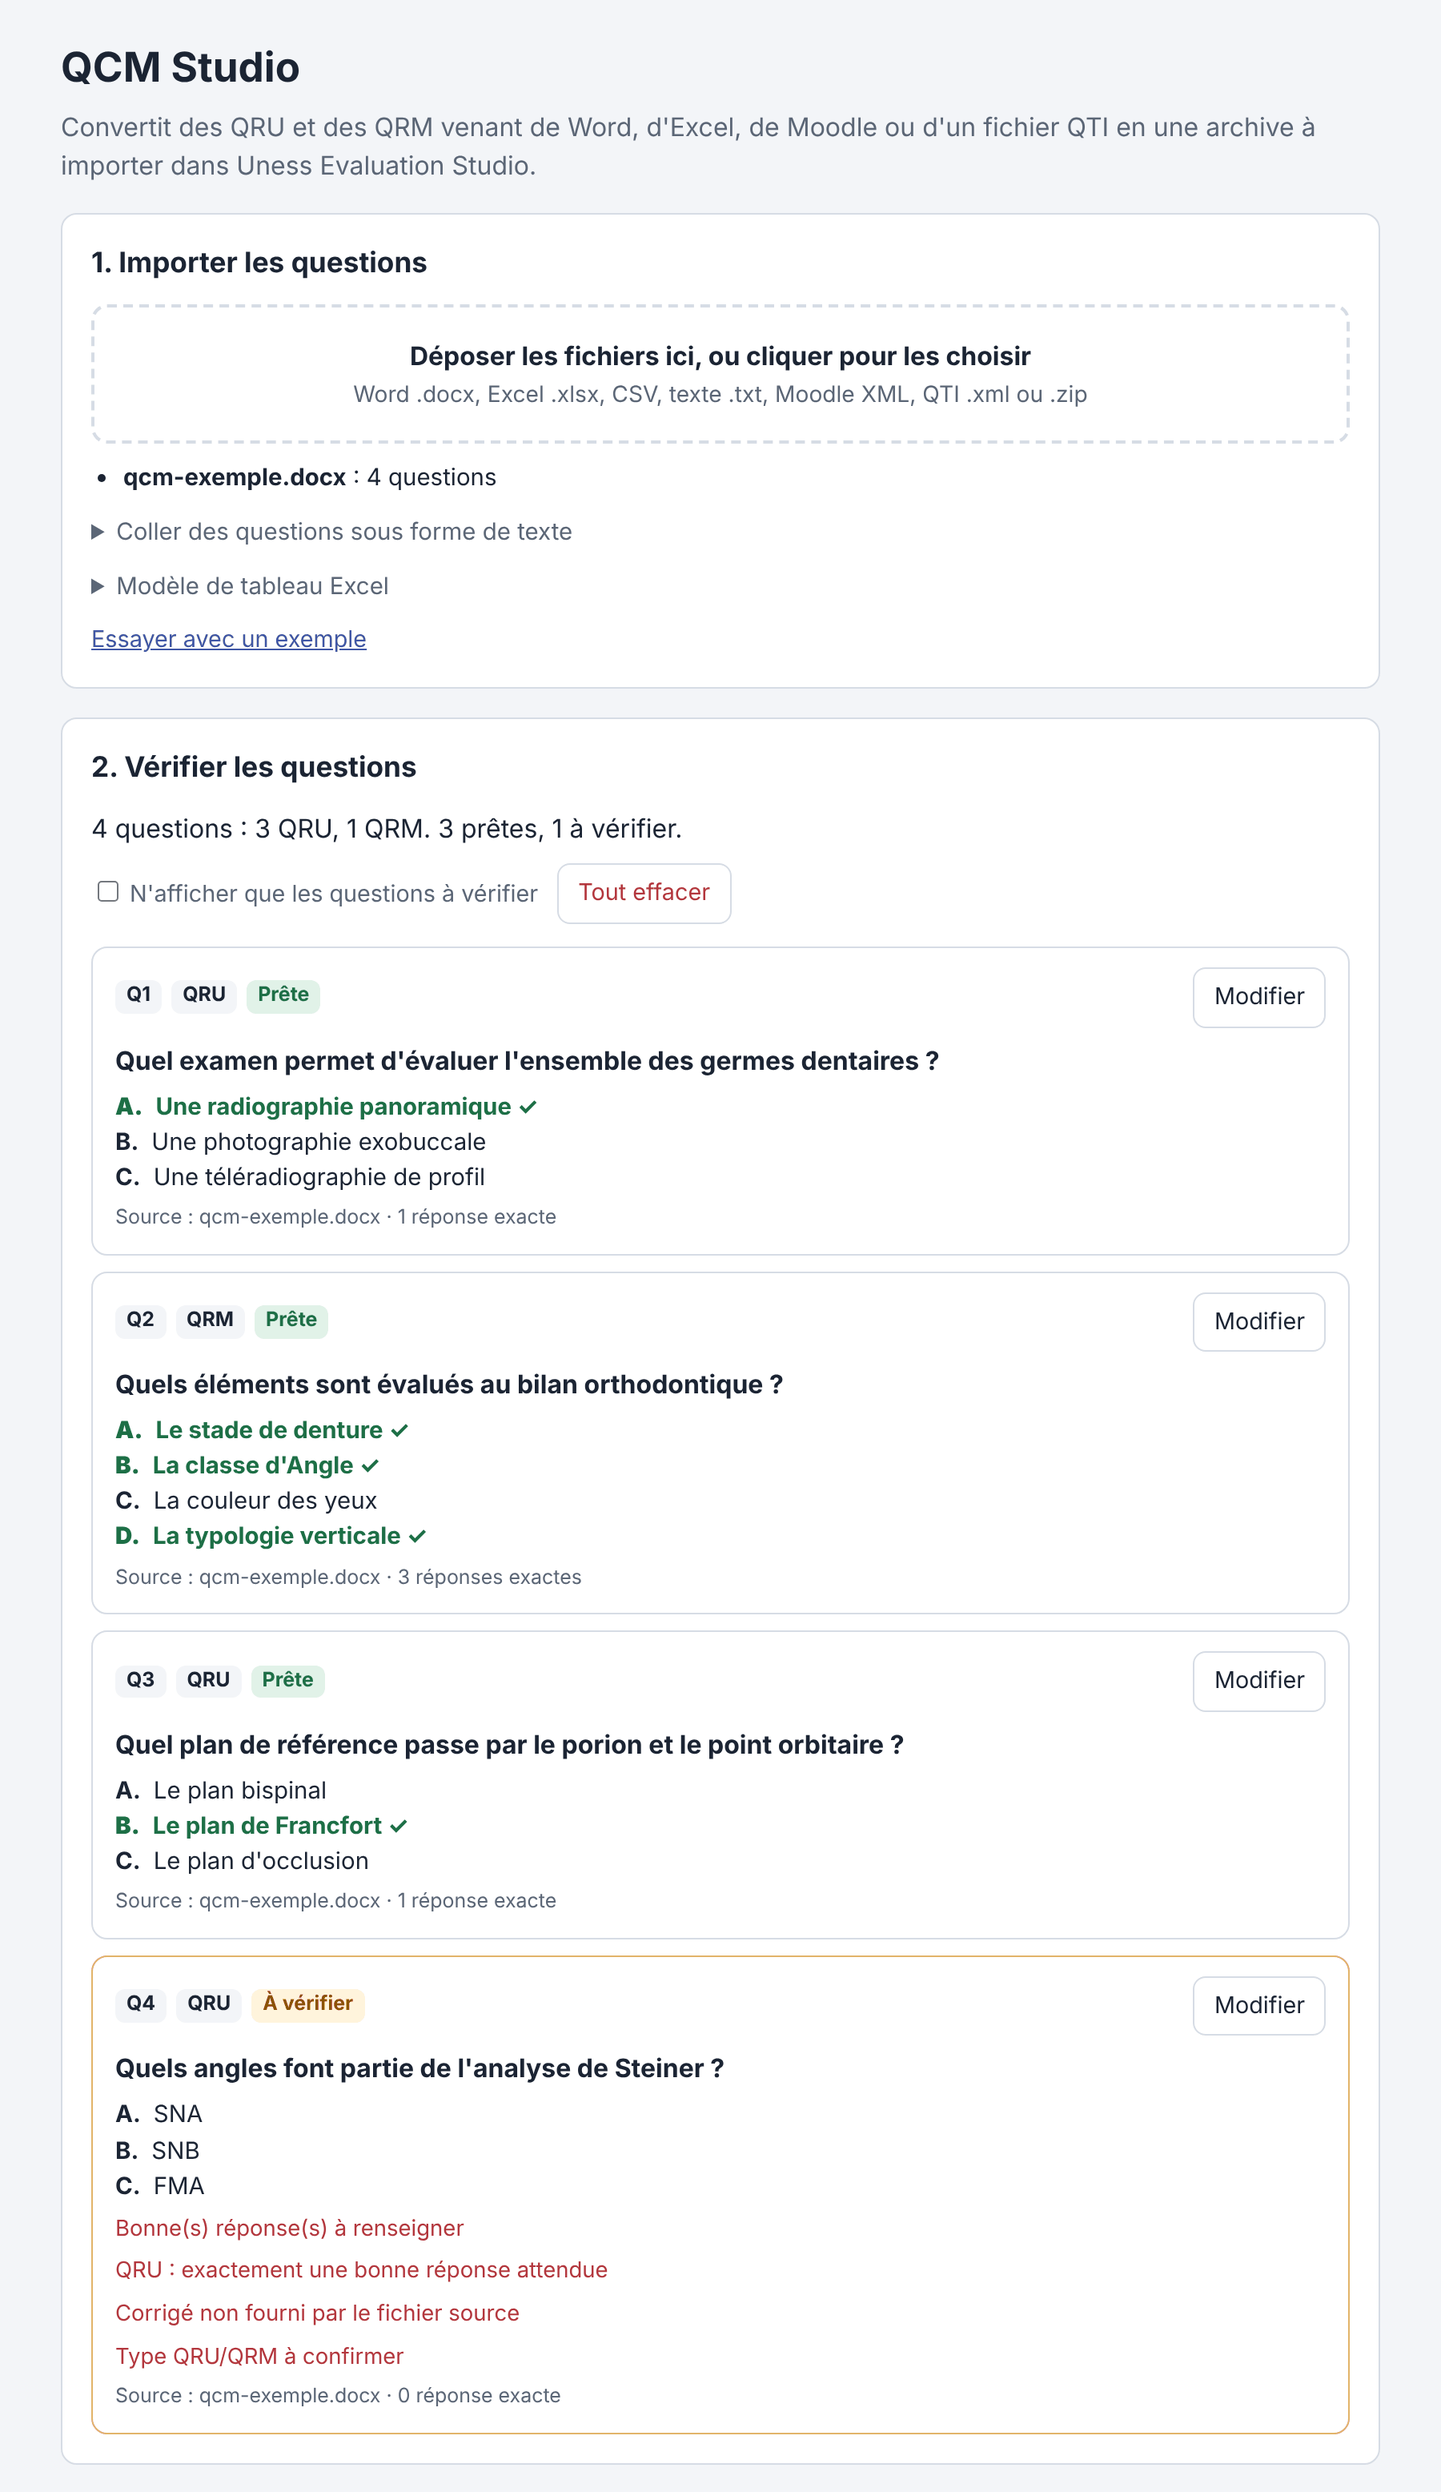
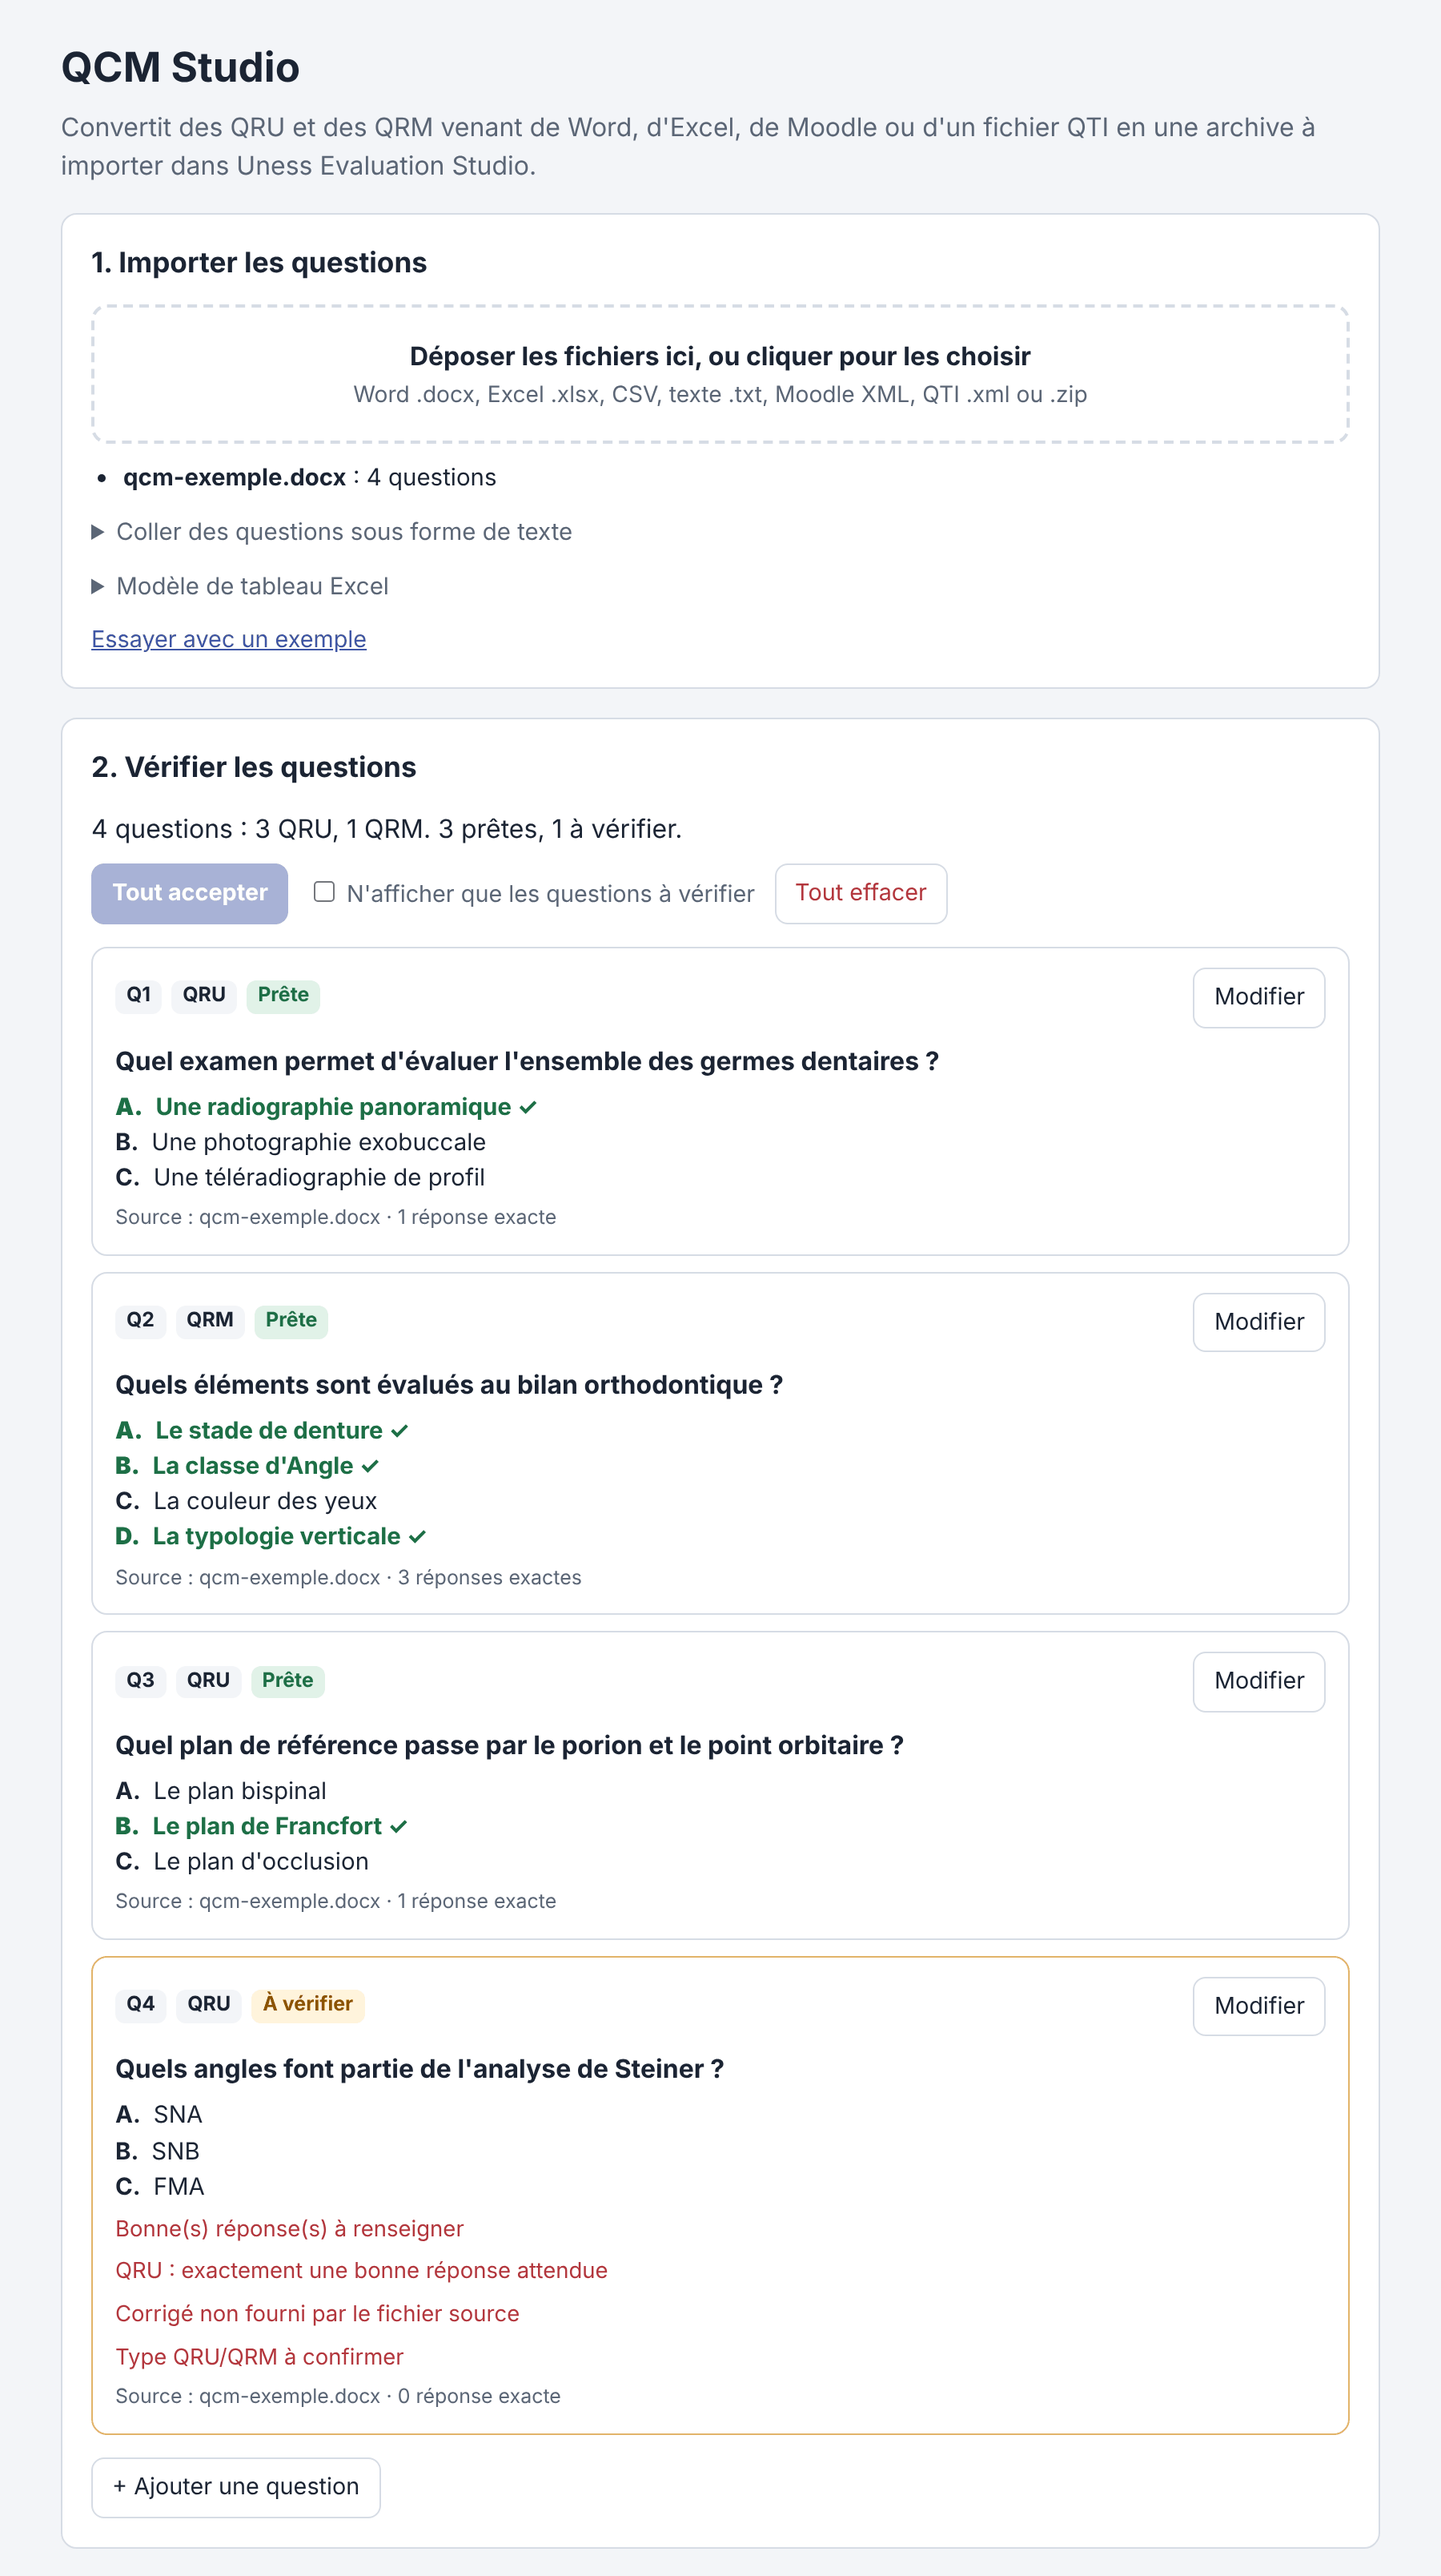
Rétablit l'ajout manuel de questions et le bouton Tout accepter
Claude-Session: https://claude.ai/code/session_01PRPaLM5m9NzYQXdgtGvSjs

diff --git a/index.html b/index.html
@@ -77,6 +77,7 @@ label.champ, p.champ { display: block; margin: 12px 0 4px; font-size: 0.86rem; f
 .choix button { flex: none; }
 .vide { color: var(--discret); font-size: 0.92rem; }
 #etatExport { margin-top: 14px; font-weight: 700; }
+#noteLot { margin-top: 8px; }
 #etatExport.ok { color: var(--ok); }
 #etatExport.alerte { color: var(--alerte); }
 footer { margin-top: 8px; font-size: 0.75rem; color: var(--discret); text-align: center; }
@@ -117,11 +118,13 @@ footer { margin-top: 8px; font-size: 0.75rem; color: var(--discret); text-align:
     <h2>2. Vérifier les questions</h2>
     <p id="bilan">Aucune question pour l'instant.</p>
     <div class="actions" id="outils" hidden>
-      <button type="button" class="principal" id="toutAccepter" hidden></button>
+      <button type="button" class="principal" id="toutAccepter" disabled title="Confirmer en une fois les corrigés déjà détectés, sans inventer de réponses">Tout accepter</button>
       <label class="filtre" id="filtreLabel" hidden><input type="checkbox" id="filtre"> N'afficher que les questions à vérifier</label>
       <button type="button" class="danger" id="toutEffacer">Tout effacer</button>
     </div>
+    <p class="discret" id="noteLot" hidden></p>
     <ol class="questions" id="liste"></ol>
+    <div class="actions" style="margin-top: 14px"><button type="button" id="ajouterQuestion">+ Ajouter une question</button></div>
   </section>
 
   <section class="carte">
@@ -132,7 +135,7 @@ footer { margin-top: 8px; font-size: 0.75rem; color: var(--discret); text-align:
     <input type="text" id="identifiant" value="TEST_001">
     <label class="champ" for="consignes">Consignes aux étudiants (facultatif)</label>
     <textarea id="consignes"></textarea>
-    <p id="etatExport">Importez des questions pour activer l'export.</p>
+    <p id="etatExport">Importez ou ajoutez des questions pour activer l'export.</p>
     <div class="actions">
       <button type="button" class="principal" id="exportQTI" disabled>Télécharger l'archive QTI (.zip)</button>
       <button type="button" id="exportTXT" disabled>Texte (.txt)</button>
@@ -1506,14 +1509,17 @@ function afficherResume() {
     : "Aucune question pour l'instant.";
   const lot = qs.filter(bulkAcceptable).length;
   $("outils").hidden = !qs.length;
-  $("toutAccepter").hidden = !lot;
-  $("toutAccepter").textContent =
-    lot > 1 ? `Confirmer les ${lot} corrigés détectés` : "Confirmer le corrigé détecté";
+  $("toutAccepter").disabled = !lot;
+  $("noteLot").hidden = !lot;
+  $("noteLot").textContent =
+    lot > 1
+      ? `${lot} questions ont un corrigé détecté qui reste à confirmer.`
+      : "Une question a un corrigé détecté qui reste à confirmer.";
   $("filtreLabel").hidden = !aVerifier && !etat.aVerifierSeulement;
 
   const etatExport = $("etatExport");
   etatExport.textContent = !qs.length
-    ? "Importez des questions pour activer l'export."
+    ? "Importez ou ajoutez des questions pour activer l'export."
     : aVerifier
       ? `${pluriel(aVerifier, "question")} à corriger avant l'export.`
       : "Toutes les questions sont prêtes.";
@@ -1568,7 +1574,7 @@ function carteEdition(q, i) {
       return `<div class="choix">
     <b>${lettre}</b>
     <input type="checkbox" data-champ="juste" data-j="${j}"${c.correct ? " checked" : ""} aria-label="Bonne réponse ${lettre}">
-    <input type="text" data-champ="proposition" data-j="${j}" value="${esc(c.text)}" aria-label="Proposition ${lettre}">
+    <input type="text" data-champ="proposition" data-j="${j}" value="${esc(c.text)}" placeholder="Proposition ${lettre}" aria-label="Proposition ${lettre}">
     <button type="button" data-action="retirer" data-j="${j}" aria-label="Retirer la proposition ${lettre}">×</button>
   </div>`;
     })
@@ -1582,7 +1588,7 @@ function carteEdition(q, i) {
     details.length ? "<br>" + esc(details.join(" ")) : ""
   }</p>
   <label class="champ" for="enonce-${i}">Énoncé</label>
-  <textarea id="enonce-${i}" data-champ="enonce">${esc(q.text)}</textarea>
+  <textarea id="enonce-${i}" data-champ="enonce" placeholder="Énoncé de la question">${esc(q.text)}</textarea>
   <label class="champ" for="type-${i}">Type</label>
   <select id="type-${i}" data-champ="type">
     <option value="single"${q.type === "single" ? " selected" : ""}>QRU : une seule bonne réponse</option>
@@ -1604,6 +1610,8 @@ function aConfirmer(q, detail) {
 }
 
 function confirmer(q) {
+  q.text = clean(q.text);
+  for (const c of q.choices) c.text = clean(c.text);
   q.correctionStatus = "manual";
   q.correctionDetail = "";
   q.typeNeedsReview = false;
@@ -1670,10 +1678,22 @@ $("filtre").addEventListener("change", (e) => {
 });
 
 $("toutEffacer").addEventListener("click", () => {
-  if (!confirm("Effacer toutes les questions importées ?")) return;
+  if (!confirm("Effacer toutes les questions ?")) return;
   Object.assign(etat, { questions: [], fichiers: [], messages: [], edition: -1, aVerifierSeulement: false });
   $("filtre").checked = false;
   afficher();
+});
+
+$("ajouterQuestion").addEventListener("click", () => {
+  const vide = { text: "", correct: false };
+  etat.questions.push(
+    question("", "single", [vide, vide], "Création manuelle", { correctionStatus: "missing" }),
+  );
+  etat.edition = etat.questions.length - 1;
+  afficher();
+  const carteOuverte = $("liste").querySelector(".edition");
+  carteOuverte.scrollIntoView({ block: "center" });
+  carteOuverte.querySelector("textarea").focus({ preventScroll: true });
 });
 
 $("liste").addEventListener("click", (e) => {

diff --git a/README.md b/README.md
@@ -14,7 +14,7 @@ L'application lit ces fichiers, reconnaît les questions et leurs propositions, 
 
 L'application tient dans un seul fichier, `index.html`. On peut l'ouvrir en ligne à l'adresse https://acavare.github.io/convertisseur-UNESS-QCM/, ou la télécharger (bouton « Code », puis « Download ZIP ») et ouvrir `index.html` d'un double-clic : elle fonctionne alors sans connexion.
 
-1. Déposez un ou plusieurs fichiers dans le cadre, ou collez les questions sous forme de texte.
+1. Déposez un ou plusieurs fichiers dans le cadre, ou collez les questions sous forme de texte. On peut aussi créer les questions directement dans la page avec « + Ajouter une question ».
 2. Parcourez la liste. Une question marquée « À vérifier » n'a pas de corrigé exploitable : cliquez sur « Modifier », cochez les bonnes réponses, puis sur « Valider la question ».
 3. Une fois toutes les questions prêtes, indiquez le titre et l'identifiant de la banque, puis téléchargez l'archive QTI (.zip).
 4. Dans Uness Evaluation Studio, cliquez sur « Import QTI » dans le menu de gauche, déposez l'archive, puis cliquez sur « Importer ». La fiche d'aide de l'UNESS [Comment réaliser un import QTI dans le Studio ?](https://assistance.uness.fr/pluginfile.php/276/mod_resource/content/1/Studio_import_QTI_202507.pdf) détaille la procédure.
@@ -78,7 +78,7 @@ Le fichier [exemple/modele-qcm.xlsx](exemple/modele-qcm.xlsx) peut servir de poi
 
 Chaque question doit avoir un énoncé, entre deux et huit propositions non vides et au moins une bonne réponse. Une QRU en a exactement une. Quand le fichier ne donne pas de corrigé certain, la question reste « À vérifier » : l'application ne devine jamais une bonne réponse.
 
-Les barèmes particuliers (pourcentages Moodle, pénalités, points QTI) ne passent pas dans l'archive : seules les bonnes réponses sont conservées. Les questions concernées sont signalées. Si leurs réponses cochées sont justes, un bouton au-dessus de la liste permet de les confirmer en une fois.
+Les barèmes particuliers (pourcentages Moodle, pénalités, points QTI) ne passent pas dans l'archive : seules les bonnes réponses sont conservées. Les questions concernées sont signalées. Si leurs réponses cochées sont justes, le bouton « Tout accepter » les confirme en une fois.
 
 ## Ce qui est exporté
 
